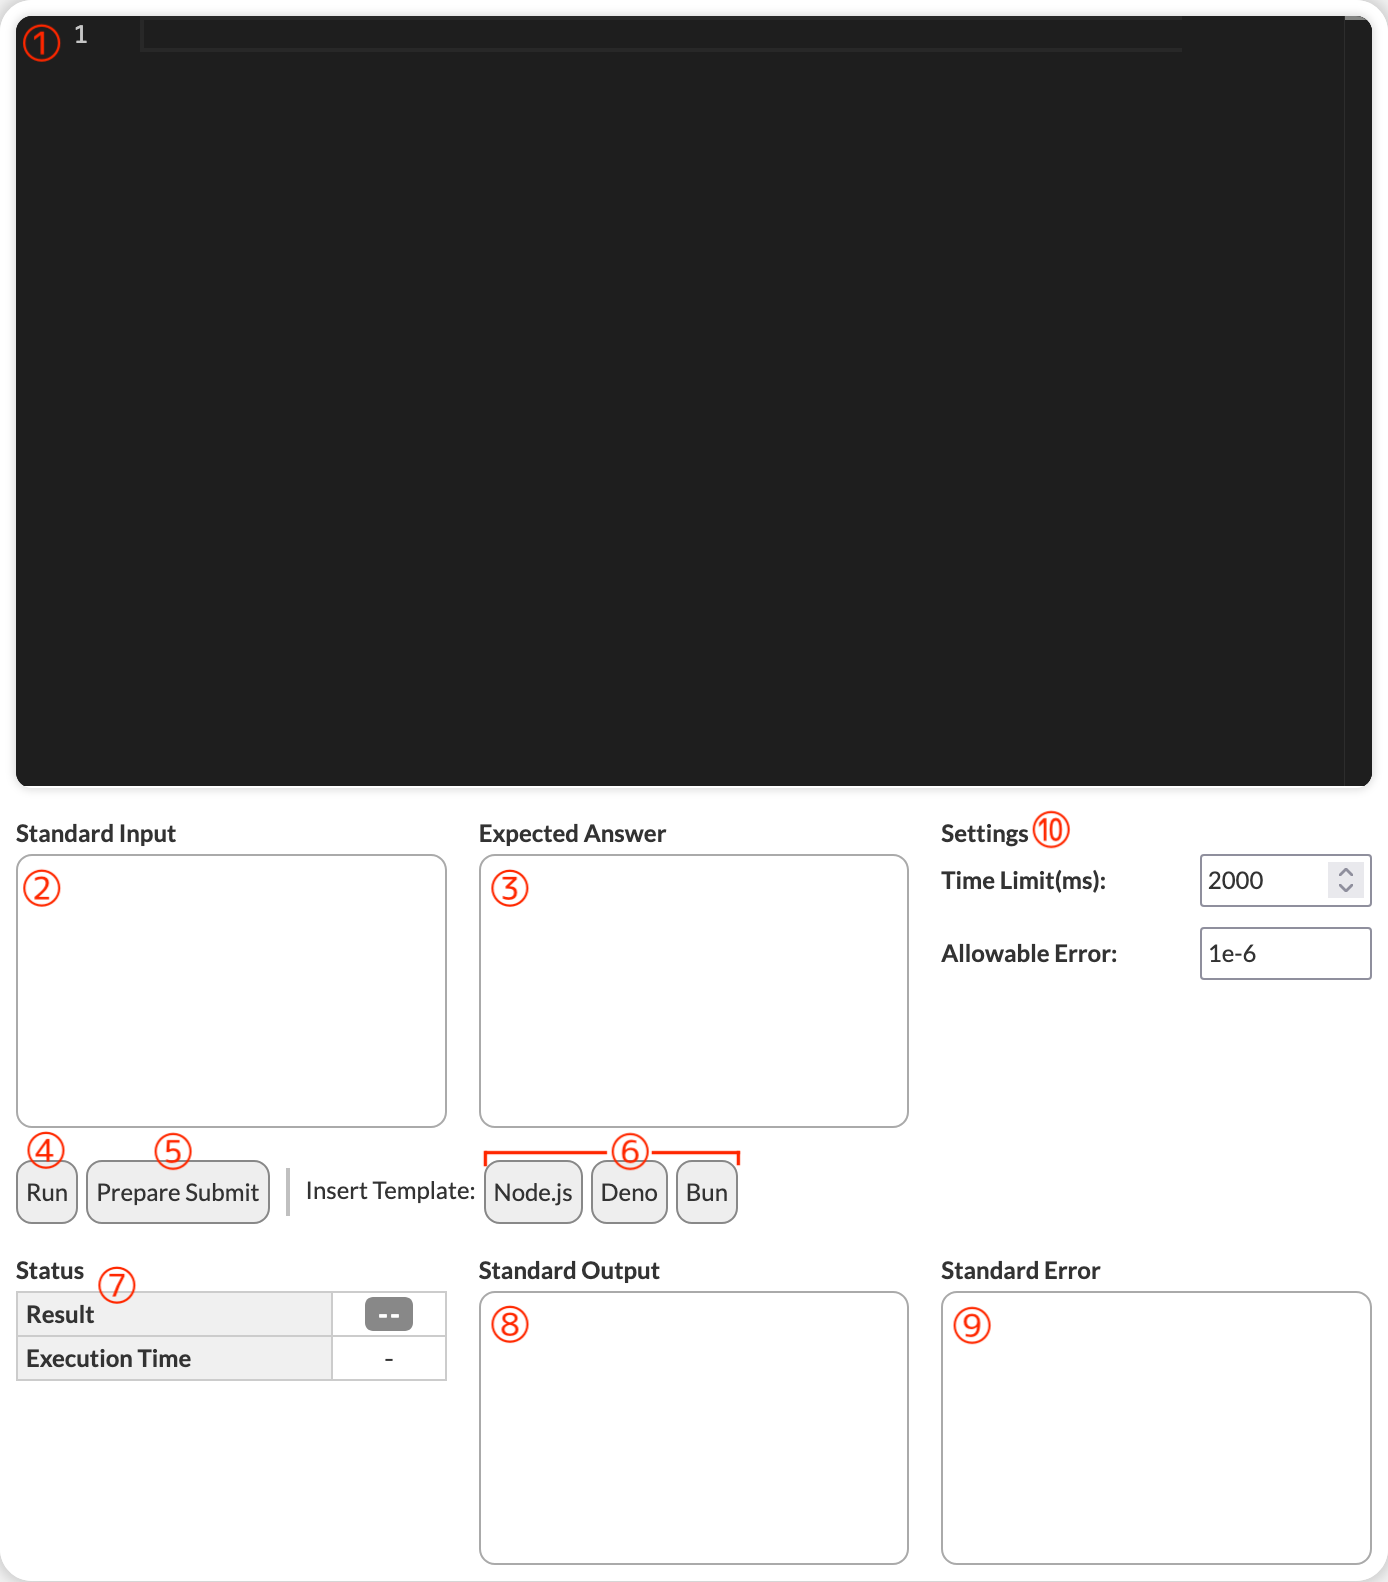
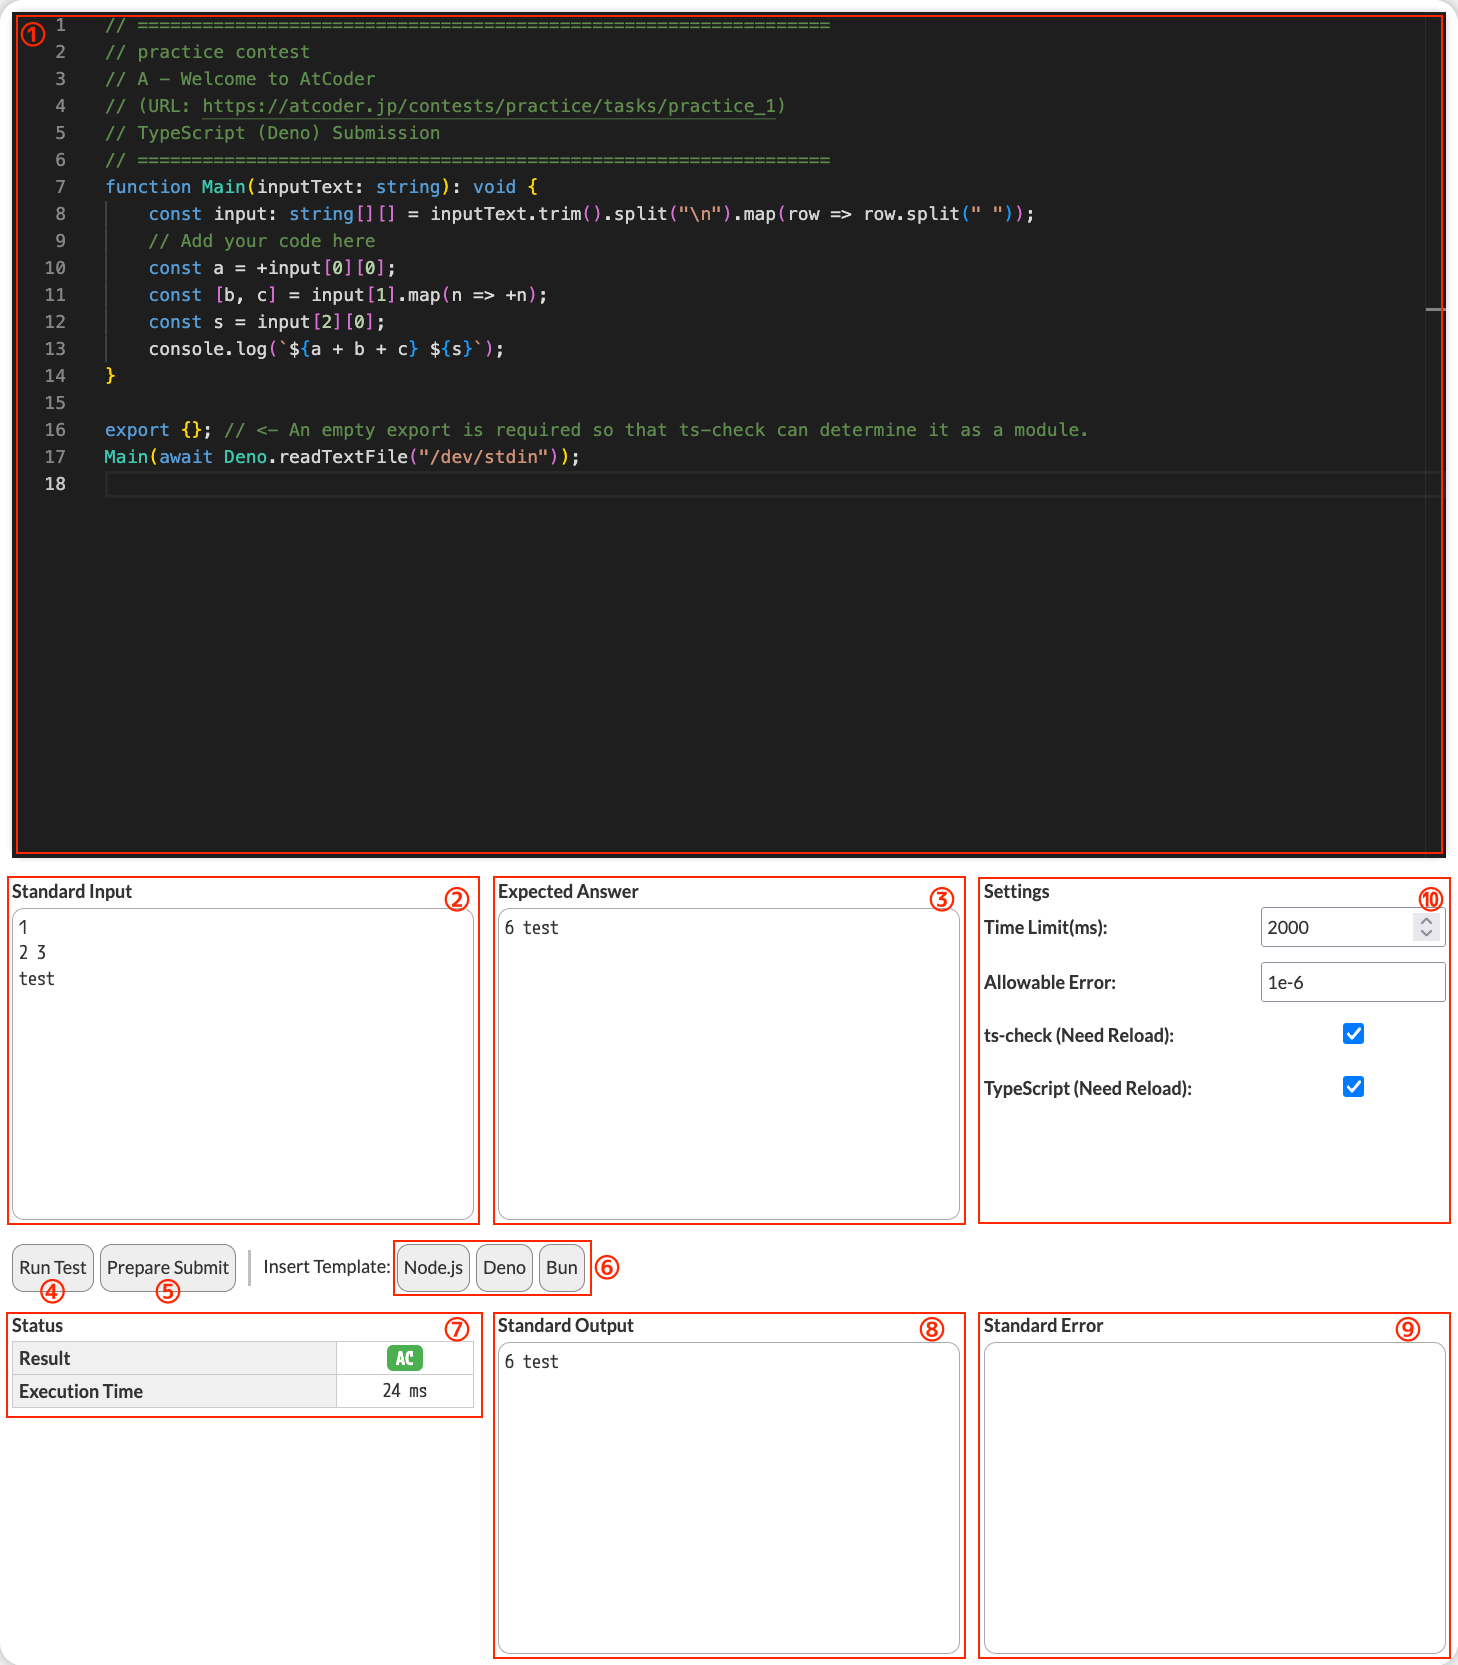
これで一通りいいんじゃないでしょうか - TypeScript対応を追加 - コードテンプレートを拡充・一部変更 - 入出力例のコピーボタンを追加 - README.mdの更新

diff --git a/index.user.js b/index.user.js
@@ -1,8 +1,8 @@
 // ==UserScript==
-// @name         AtCoder JavaScript Tester
+// @name         AtCoder JavaScript Tester beta
 // @namespace    http://axtech.dev/
-// @version      0.5.1
-// @description  AtCoderでJavaScriptコードをテスト実行するためのユーザースクリプト
+// @version      0.6.0
+// @description  AtCoderでJavaScript・TypeScriptコードをテスト実行するためのユーザースクリプト
 // @author       AXT-AyaKoto
 // @match        https://atcoder.jp/contests/*/tasks/*
 // @grant        GM_addStyle
@@ -239,6 +239,7 @@
         <li class="setting_item"><label for="ajt_timeout">Time Limit(ms):</label><input type="number" id="ajt_timeout" value="2000"></li>
         <li class="setting_item"><label for="ajt_allowable_error">Allowable Error:</label><input type="text" id="ajt_allowable_error" value="1e-6"></li>
         <li class="setting_item"><label for="ajt_ts_check_enabled">ts-check (Need Reload):</label><input type="checkbox" id="ajt_ts_check_enabled"></li>
+        <li class="setting_item"><label for="ajt_typescript_enabled">TypeScript (Need Reload):</label><input type="checkbox" id="ajt_typescript_enabled"></li>
     </ul>
 </div>
 <div class="section_controls">
@@ -290,6 +291,22 @@
         }
     });
 
+    // ajt_typescript_enabledを更新
+    const is_typescript_enabled = GM_getValue("ajt_typescript_enabled", "false");
+    if (is_typescript_enabled === "true") {
+        document.querySelector("#ajt_typescript_enabled").checked = true;
+    } else {
+        document.querySelector("#ajt_typescript_enabled").checked = false;
+    }
+    document.querySelector("#ajt_typescript_enabled").addEventListener('click', (event) => {
+        const checked = event.target.checked;
+        if (checked) {
+            GM_setValue("ajt_typescript_enabled", "true");
+        } else {
+            GM_setValue("ajt_typescript_enabled", "false");
+        }
+    });
+
     // Monaco Editorへ入れるコードについて、過去に保存されていればそれを持ってくる(なければ空文字)
     const savedCode = GM_getValue(`monaco_editor_code_${path}`, "");
 
@@ -311,20 +328,7 @@
     await new Promise((resolve, reject) => {
         require(['vs/editor/editor.main'], () => {
             try {
-                // 型チェックを有効化する場合の設定
-                if (GM_getValue("ajt_ts_check_enabled", "true") === "true") {
-                    monaco.languages.typescript.javascriptDefaults.setDiagnosticsOptions({
-                        noSemanticValidation: false
-                    });
-                    monaco.languages.typescript.javascriptDefaults.setCompilerOptions({
-                        ...monaco.languages.typescript.javascriptDefaults.getCompilerOptions(),
-                        checkJs: true,
-                        strictNullChecks: true,
-                        target: monaco.languages.typescript.ScriptTarget.ESNext,
-                        lib: ['esnext'],
-                        module: monaco.languages.typescript.ModuleKind.ESNext
-                    });
-                    monaco.languages.typescript.javascriptDefaults.addExtraLib(`
+                const extra_types = `
 // Console (本来はlib: domにあるが、domをimportするとwindowやdocumentを怒ってくれないのでここで再定義)
 declare var console: {
     log(...data: any[]): void;
@@ -338,6 +342,9 @@ declare var console: {
 declare module 'fs' {
     export function readFileSync(path: string, encoding: 'utf8'): string;
 }
+declare var require: {
+    (moduleName: 'fs'): typeof import('fs');
+};
 declare namespace Deno {
     function readTextFile(path: string): Promise<string>;
 }
@@ -346,7 +353,32 @@ declare namespace Bun {
         text(): Promise<string>;
     };
 }
-`, 'ts:runtime-apis.d.ts');
+`;
+                // 型チェックを有効化する場合の設定
+                if (GM_getValue("ajt_ts_check_enabled", "true") === "true") {
+                    monaco.languages.typescript.javascriptDefaults.setDiagnosticsOptions({
+                        noSemanticValidation: false
+                    });
+                    monaco.languages.typescript.javascriptDefaults.setCompilerOptions({
+                        ...monaco.languages.typescript.javascriptDefaults.getCompilerOptions(),
+                        checkJs: true,
+                        strictNullChecks: true,
+                        target: monaco.languages.typescript.ScriptTarget.ESNext,
+                        lib: ['esnext'],
+                        module: monaco.languages.typescript.ModuleKind.ESNext
+                    });
+                    monaco.languages.typescript.javascriptDefaults.addExtraLib(extra_types, 'ts:runtime-apis.d.ts');
+                }
+                // TypeScriptモードを有効化する場合の設定
+                if (GM_getValue("ajt_typescript_enabled", "false") === "true") {
+                    monaco.languages.typescript.typescriptDefaults.setCompilerOptions({
+                        ...monaco.languages.typescript.typescriptDefaults.getCompilerOptions(),
+                        target: monaco.languages.typescript.ScriptTarget.ESNext,
+                        lib: ['esnext'],
+                        module: monaco.languages.typescript.ModuleKind.ESNext,
+                        strict: true,
+                    });
+                    monaco.languages.typescript.typescriptDefaults.addExtraLib(extra_types, 'ts:runtime-apis.d.ts');
                 }
 
                 const editorContainer = document.createElement('div');
@@ -354,14 +386,15 @@ declare namespace Bun {
                 editorContainer.style.height = '100%';
                 editorContainer.classList.add('monaco-editor-container');
                 container_div.appendChild(editorContainer);
+                const language_mode = GM_getValue("ajt_typescript_enabled", "false") === "true" ? 'typescript' : 'javascript';
                 const editor = monaco.editor.create(editorContainer, {
                     value: savedCode,
-                    language: 'javascript', // 言語モード
+                    language: language_mode, // 言語モード
                     theme: 'vs-dark',       // テーマ (vs-dark, vs-lightなど)
                     automaticLayout: true,  // コンテナサイズ変更時に自動リサイズ
                     minimap: { enabled: false } // ミニマップの表示を無効化
                 });
-                console.log('Monaco Editorの生成に成功しました。');
+                console.log(`Monaco Editorの生成に成功しました。言語モード: ${language_mode}`);
                 monaco_editor = editor;
                 resolve();
 
@@ -372,65 +405,139 @@ declare namespace Bun {
         });
     });
 
-    // #ajt_insert_*_button を押下したときの処理を追加
-    document.querySelector("#ajt_insert_nodejs_button").addEventListener("click", () => {
-        const newCode = `\
+    // TypeScriptモードの場合、トランスパイル用にSucraseを読み込んでおく
+    if (GM_getValue("ajt_typescript_enabled", "false") === "true") {
+        await new Promise(async (resolve) => {
+            // 下記URLはES Module形式でSucraseを提供している
+            const SUCRASE_URL = "https://esm.sh/sucrase@3.35.1/?target=esnext";
+            const module = await import(SUCRASE_URL);
+            window.Sucrase = module;
+            resolve();
+        });
+        // test: Sucraseが正しく読み込まれたか確認
+        console.log('Sucraseの読み込みに成功しました。', window.Sucrase);
+    }
+
+    // テンプレートコードの事前準備
+    /** @type {(environment: ("Node.js" | "Deno" | "Bun"), language: ("JavaScript" | "TypeScript")) => string} */
+    const getTemplateCode = (environment, language) => {
+        const comment_section = `\
 // ================================================================
 // ${document.querySelector("nav .contest-title").innerText.trim()}
 // ${document.title.trim()}
 // (URL: ${window.location.href})
-// JavaScript (Node.js) Submission
+// ${language} (${environment}) Submission
 // ================================================================
+`;
+        const main_function_section = {
+            "JavaScript": `\
 /** @type {(inputText: string) => void} */
 function Main(inputText) {
     /** @type {string[][]} */
     const input = inputText.trim().split("\\n").map(row => row.split(" "));
-    // ここに処理を追加
+    // Add your code here
 }
+`,
+            "TypeScript": `\
+function Main(inputText: string): void {
+    const input: string[][] = inputText.trim().split("\\n").map(row => row.split(" "));
+    // Add your code here
+}
+`
+        }[language];
+        const stdin_section = {
+            "Node.js": `\
 Main(require("fs").readFileSync("/dev/stdin", "utf8"));
-`;
+`,
+            "Deno": `\
+export {}; // <- An empty export is required so that ts-check can determine it as a module.
+Main(await Deno.readTextFile("/dev/stdin"));
+`,
+            "Bun": `\
+export {}; // <- An empty export is required so that ts-check can determine it as a module.
+Main(await Bun.file("/dev/stdin").text());
+`
+        }[environment];
+        return `${comment_section}${main_function_section}\n${stdin_section}`;
+    };
+    const language_mode = GM_getValue("ajt_typescript_enabled", "false") === "true" ? "TypeScript" : "JavaScript";
+    // 「このページで挿入される可能性のあるテンプレートコードのSet」を作る
+    const possibleTemplateCodes = new Set();
+    ["Node.js", "Deno", "Bun"].forEach(env => {
+        possibleTemplateCodes.add(getTemplateCode(env, "JavaScript"));
+        possibleTemplateCodes.add(getTemplateCode(env, "TypeScript"));
+    });
+    possibleTemplateCodes.add(""); // 空文字列も追加
+    // #ajt_insert_*_button を押下したときの処理を追加
+    // もし現在のコードがテンプレートコードのいずれかと一致していなければ、確認ダイアログを出す
+    document.querySelector("#ajt_insert_nodejs_button").addEventListener("click", () => {
+        const currentCode = monaco_editor.getValue();
+        if (!possibleTemplateCodes.has(currentCode)) {
+            const proceed = window.confirm("If you insert it now, the current code will be lost. Do you want to proceed?");
+            if (!proceed) return;
+        }
+        const newCode = getTemplateCode("Node.js", language_mode);
         monaco_editor.setValue(newCode);
     });
     document.querySelector("#ajt_insert_deno_button").addEventListener("click", () => {
-        const newCode = `\
-// ================================================================
-// ${document.querySelector("nav .contest-title").innerText.trim()}
-// ${document.title.trim()}
-// (URL: ${window.location.href})
-// JavaScript (Deno) Submission
-// ================================================================
-/** @type {(inputText: string) => void} */
-function Main(inputText) {
-    /** @type {string[][]} */
-    const input = inputText.trim().split("\\n").map(row => row.split(" "));
-    // ここに処理を追加
-}
-
-export {}; // <- ts-checkにmoduleとして扱わせるために空exportが必要です。
-Main(await Deno.readTextFile("/dev/stdin"));
-`;
+        const currentCode = monaco_editor.getValue();
+        if (!possibleTemplateCodes.has(currentCode)) {
+            const proceed = window.confirm("If you insert it now, the current code will be lost. Do you want to proceed?");
+            if (!proceed) return;
+        }
+        const newCode = getTemplateCode("Deno", language_mode);
         monaco_editor.setValue(newCode);
     });
     document.querySelector("#ajt_insert_bun_button").addEventListener("click", () => {
-        const newCode = `\
-// ================================================================
-// ${document.querySelector("nav .contest-title").innerText.trim()}
-// ${document.title.trim()}
-// (URL: ${window.location.href})
-// JavaScript (Bun) Submission
-// ================================================================
-/** @type {(inputText: string) => void} */
-function Main(inputText) {
-    /** @type {string[][]} */
-    const input = inputText.trim().split("\\n").map(row => row.split(" "));
-    // ここに処理を追加
-}
-
-export {}; // <- ts-checkにmoduleとして扱わせるために空exportが必要です。
-Main(await Bun.file("/dev/stdin").text());
-`;
+        const currentCode = monaco_editor.getValue();
+        if (!possibleTemplateCodes.has(currentCode)) {
+            const proceed = window.confirm("If you insert it now, the current code will be lost. Do you want to proceed?");
+            if (!proceed) return;
+        }
+        const newCode = getTemplateCode("Bun", language_mode);
         monaco_editor.setValue(newCode);
     });
+
+    // 問題文の"入力例 n"セクションに[Copy IO]ボタンを追加する処理
+    (() => {
+        const sampleIOs = {
+            I_pre: new Map(),
+            I_el: new Map(),
+            O_pre: new Map(),
+            nums: new Set()
+        };
+        document.querySelectorAll(".lang-ja section:has(h3~pre)").forEach(sect => {
+            const sample_h3_text = sect.querySelector("h3").childNodes[0].textContent;
+            const sample_pre_text = sect.querySelector("pre").childNodes[0].textContent;
+            if (sample_h3_text.startsWith("入力例 ")) {
+                const sample_number = Number(sample_h3_text.slice(4));
+                sampleIOs.I_pre.set(sample_number, sample_pre_text);
+                sampleIOs.I_el.set(sample_number, sect.querySelector("h3"));
+                sampleIOs.nums.add(sample_number);
+            }
+            if (sample_h3_text.startsWith("出力例 ")) {
+                const sample_number = Number(sample_h3_text.slice(4));
+                sampleIOs.O_pre.set(sample_number, sample_pre_text);
+                sampleIOs.nums.add(sample_number);
+            }
+        });
+        sampleIOs.nums.forEach(num => {
+            const input_section_h3 = sampleIOs.I_el.get(num);
+            if (!input_section_h3) return;
+            const input_text = sampleIOs.I_pre.get(num) || "";
+            const output_text = sampleIOs.O_pre.get(num) || "";
+            const copy_button = document.createElement("span");
+            copy_button.classList.add("btn", "btn-default", "btn-sm", "btn-copy", "ml-1");
+            copy_button.textContent = "Copy IO";
+            // 対応するh3要素の最後の子要素として追加
+            input_section_h3.appendChild(copy_button);
+            // クリック時、ajt_stdinとajt_answerにそれぞれinput_textとoutput_textをセットする
+            copy_button.addEventListener("click", () => {
+                document.querySelector("#ajt_stdin").value = input_text;
+                document.querySelector("#ajt_answer").value = output_text;
+            });
+        });
+    })();
 
     // 問題ページのソースコード欄に文字列をsetする関数
     const setSourceCode = (code) => {
@@ -473,6 +580,14 @@ Main(await Bun.file("/dev/stdin").text());
     const createWorkerScript = () => {
         // Editorのコードを取得
         let userCode = monaco_editor.getValue();
+        // TypeScriptモードの場合、SucraseでJavaScriptにトランスパイルする (型を消すだけでOK)
+        if (GM_getValue("ajt_typescript_enabled", "false") === "true") {
+            const transformed = window.Sucrase.transform(userCode, {
+                transforms: ['typescript'],
+                disableESTransforms: true
+            });
+            userCode = transformed.code;
+        }
         // `Main(require("fs").readFileSync("/dev/stdin", "utf8"));`, `Main(await Deno.readTextFile("/dev/stdin"));`, `Main(await Bun.file("/dev/stdin").text());`があれば削除する
         const deleteTargets = [
             'Main(require("fs").readFileSync("/dev/stdin", "utf8"));',
